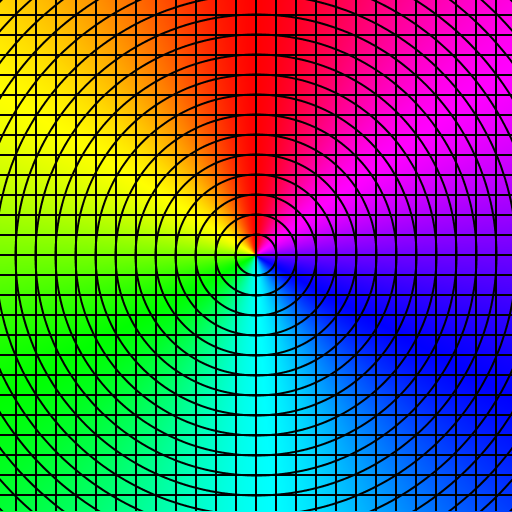
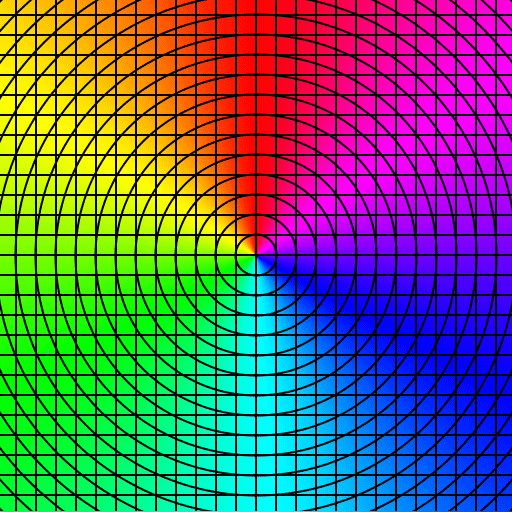
smaller grid file, set up distortion to follow mouse

diff --git a/BulgeEffect/src/ofApp.cpp b/BulgeEffect/src/ofApp.cpp
@@ -1,13 +1,20 @@
 #include "ofApp.h"
 
 void ofApp::setup() {
-
+	ofSetVerticalSync(true);
+	shader.load("bulge.vs", "bulge.fs");
+	img.loadImage("gradient-grid.png");
 }
 
 void ofApp::update() {
-
 }
 
 void ofApp::draw() {
-
+	shader.begin();
+	shader.setUniform2f("center", mouseX, mouseY);
+	shader.setUniform1f("radius", 256);
+	shader.setUniform1f("shape", 1.5);
+	shader.setUniformTexture("tex", img.getTextureReference(), 0);
+	img.draw(0, 0);
+	shader.end();
 }

diff --git a/BulgeEffect/src/ofApp.h b/BulgeEffect/src/ofApp.h
@@ -7,4 +7,7 @@ public:
 	void setup();
 	void update();
 	void draw();
+	
+	ofShader shader;
+	ofImage img;
 };
